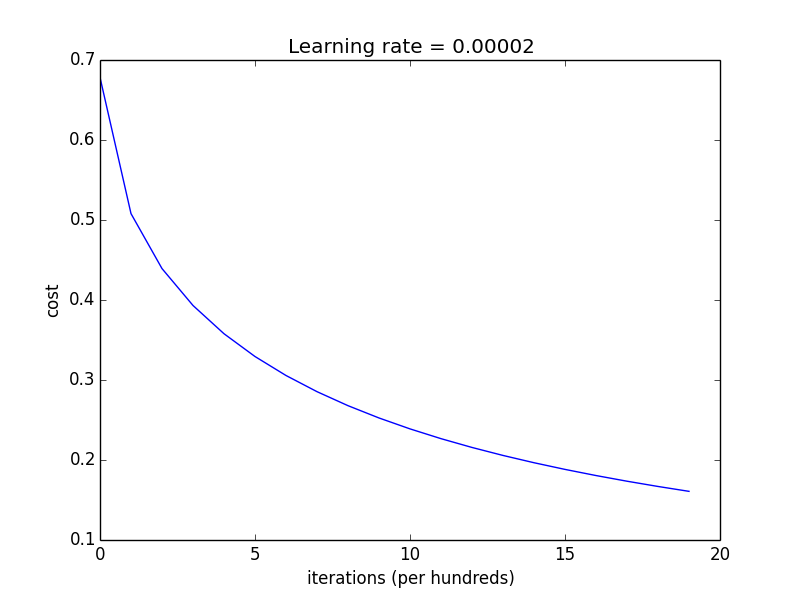
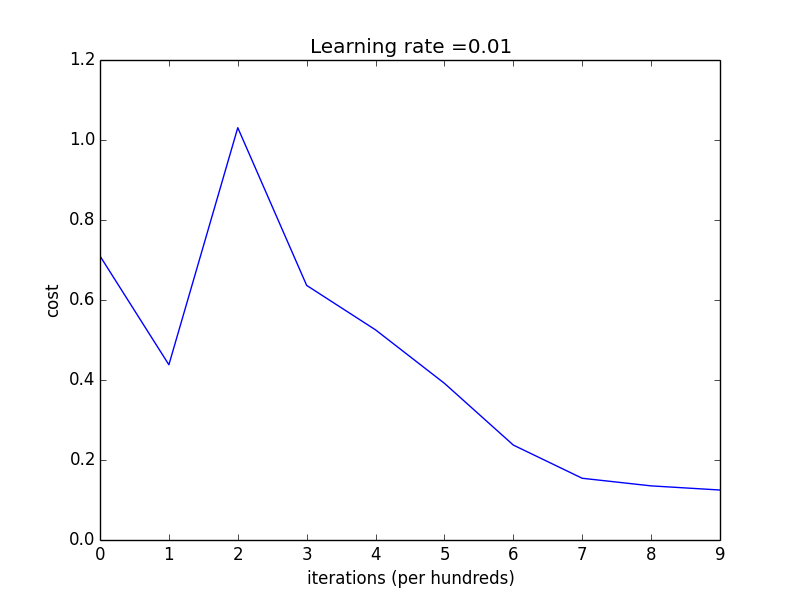
优化train_with_numpy

diff --git a/lesson3/train_with_numpy.py b/lesson3/train_with_numpy.py
@@ -20,33 +20,44 @@ Date:    2017/11/12 17:23:06
 5.分析预测结果
 6.定义model函数来按顺序将上述步骤合并
 """
-
-import numpy as np
 import matplotlib
+import numpy as np
+
 matplotlib.use('Agg')
 import matplotlib.pyplot as plt
 
-import h5py
-import scipy
-from scipy import ndimage
-from PIL import Image
+import lr_utils
 
-from lr_utils import load_dataset
 
 # 下载数据集(cat/non-cat)
-train_set_x_orig, train_set_y, test_set_x_orig, test_set_y, classes = load_dataset()
+def load_data():
+    """
+    载入数据，数据项包括：
+        train_set_x_orig：原始训练数据集
+        train_set_y：原始训练数据标签
+        test_set_x_orig：原始测试数据集
+        test_set_y：原始测试数据标签
+        classes(cat/non-cat)：分类list
 
-m_train = train_set_x_orig.shape[0]
-m_test = test_set_x_orig.shape[0]
-num_px = train_set_x_orig.shape[1]
+    Args:
+    Return:
+    """
+    train_set_x_orig, train_set_y, test_set_x_orig, test_set_y, classes = lr_utils.load_dataset()
 
-# Reshape训练数据集和测试数据集
-train_set_x_flatten = train_set_x_orig.reshape(m_train, -1).T
-test_set_x_flatten = test_set_x_orig.reshape(m_test, -1).T
+    m_train = train_set_x_orig.shape[0]
+    m_test = test_set_x_orig.shape[0]
+    num_px = train_set_x_orig.shape[1]
 
-# 数据归一化
-train_set_x = train_set_x_flatten / 255.
-test_set_x = test_set_x_flatten / 255.
+    # Reshape训练数据集和测试数据集
+    train_set_x_flatten = train_set_x_orig.reshape(m_train, -1).T
+    test_set_x_flatten = test_set_x_orig.reshape(m_test, -1).T
+
+    # 数据归一化
+    train_set_x = train_set_x_flatten / 255.
+    test_set_x = test_set_x_flatten / 255.
+
+    data = [train_set_x, train_set_y, test_set_x, test_set_y]
+    return data
 
 
 # sigmoid激活函数
@@ -175,7 +186,7 @@ def optimize(w, b, X, Y, num_iterations, learning_rate, print_cost=False):
     return params, grads, costs
 
 
-# predict
+# 预测
 def predict(w, b, X):
     """
     用学习到的逻辑回归模型来预测图片是否为猫（1 cat or 0 non-cat）
@@ -206,7 +217,7 @@ def predict(w, b, X):
     return Y_prediction
 
 
-# model
+# 综合model
 def model(X_train, Y_train, X_test, Y_test, num_iterations=2000,
           learning_rate=0.05, print_cost=False):
     """
@@ -253,13 +264,35 @@ def model(X_train, Y_train, X_test, Y_test, num_iterations=2000,
     return d
 
 
-d = model(train_set_x, train_set_y, test_set_x, test_set_y, num_iterations=1000,
-          learning_rate=0.01, print_cost=True)
+def plot_costs(d):
+    """
+    利用costs展示模型的训练曲线
 
-# 利用costs展示模型的学习曲线
-costs = np.squeeze(d['costs'])
-plt.plot(costs)
-plt.ylabel('cost')
-plt.xlabel('iterations (per hundreds)')
-plt.title("Learning rate =" + str(d["learning_rate"]))
-plt.show()
+    Args:
+        costs -- 记录了训练过程的cost变化的list，每一百次迭代记录一次
+    Return:
+    """
+    costs = np.squeeze(d['costs'])
+    plt.plot(costs)
+    plt.ylabel('cost')
+    plt.xlabel('iterations (per hundreds)')
+    plt.title("Learning rate =" + str(d["learning_rate"]))
+    plt.show()
+    plt.savefig('costs.png')
+
+
+def main():
+    """
+    载入数据、训练并展示学习曲线
+    Args:
+    Return:
+    """
+    train_set_x, train_set_y, test_set_x, test_set_y = load_data()
+
+    d = model(train_set_x, train_set_y, test_set_x, test_set_y, num_iterations=1000,
+              learning_rate=0.01, print_cost=True)
+    plot_costs(d)
+
+
+if __name__ == '__main__':
+    main()

diff --git a/lesson5/multi_nn_python.py b/lesson5/multi_nn_python.py
@@ -21,35 +21,30 @@ Date:    2017/11/17 17:27:06
 6.定义model函数来按顺序将上述步骤合并
 """
 
-import numpy as np
 import matplotlib
+
 matplotlib.use('Agg')
-import matplotlib.pyplot as plt
-import scipy
-import h5py
 import dnn_app_utils_v2
-from PIL import Image
-from scipy import ndimage
-from lr_utils import load_dataset
 
-#加载数据
+# 加载数据
 train_x_orig, train_y, test_x, test_y, classes = dnn_app_utils_v2.load_data()
-#数据预处理
-train_x_flatten = train_x_orig.reshape(train_x_orig.shape[0], -1).T   # The "-1" makes reshape flatten the remaining dimensions
-test_x_flatten = test_x.reshape(test_x.shape[0], -1).T
 
-#归一化
+# 数据预处理
+train_x_flatten = train_x_orig.reshape(train_x_orig.shape[0],
+                                       -1).T  # The "-1" makes reshape flatten the remaining dimensions
+test_x_flatten = test_x.reshape(test_x.shape[0], -1).T
+# 归一化
 train_x = train_x_flatten / 255.
 test_x = test_x_flatten / 255.
 
-#定义各层节点数
+# 定义各层节点数
 layers_dims = [12288, 20, 7, 5, 1]
 
-#计算
+# 计算
 parameters = dnn_app_utils_v2.L_layer_model(train_x, train_y, layers_dims,
-                                            num_iterations = 2500, print_cost = True)
+                                            num_iterations=2500, print_cost=True)
 
-#准确率输出
+# 准确率输出
 print('Train accuracy:')
 pred_train = dnn_app_utils_v2.predict(train_x, train_y, parameters)
 print('Test accuracy:')

diff --git a/lesson2/train.py b/lesson2/train.py
@@ -142,7 +142,7 @@ def main():
     x = paddle.layer.data(name='x', type=paddle.data_type.dense_vector(1))
     y_predict = paddle.layer.fc(input=x, size=1, act=paddle.activation.Linear())
     y = paddle.layer.data(name='y', type=paddle.data_type.dense_vector(1))
-    cost = paddle.layer.mse_cost(input=y_predict, label=y)
+    cost = paddle.layer.square_error_cost(input=y_predict, label=y)
 
     # create parameters
     parameters = paddle.parameters.create(cost)

diff --git a/lesson3/train_with_paddle.py b/lesson3/train_with_paddle.py
@@ -239,6 +239,7 @@ def plot_costs(costs):
     plt.show()
     plt.savefig('costs.png')
 
+
 def main():
     """
     定义神经网络结构，训练、预测、检验准确率并打印学习曲线
